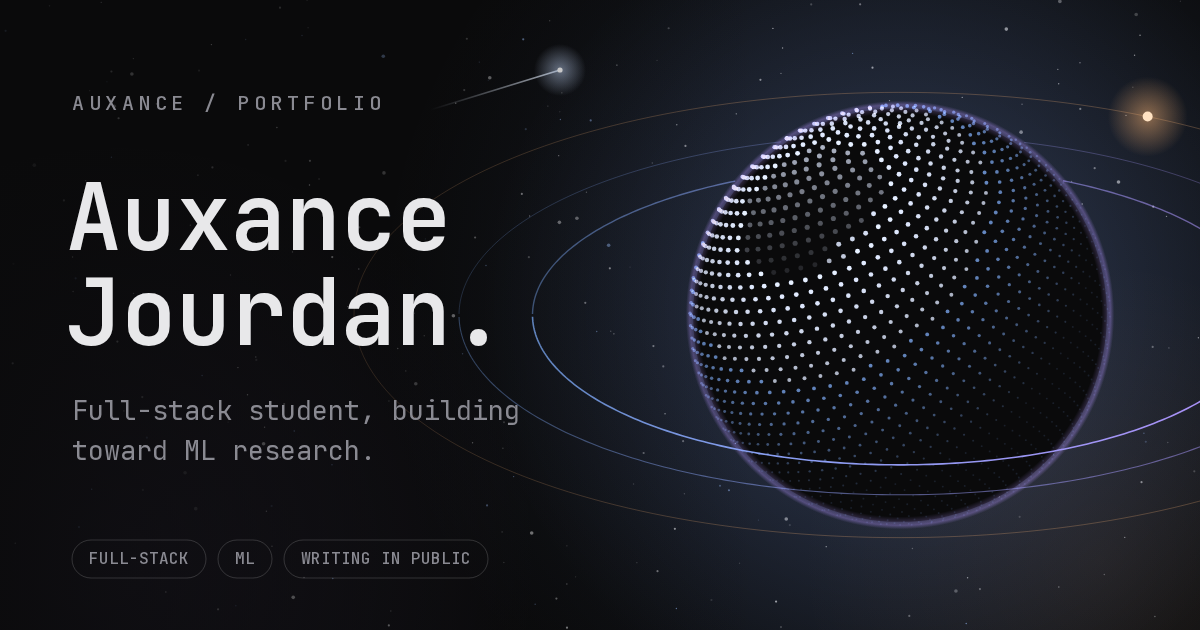
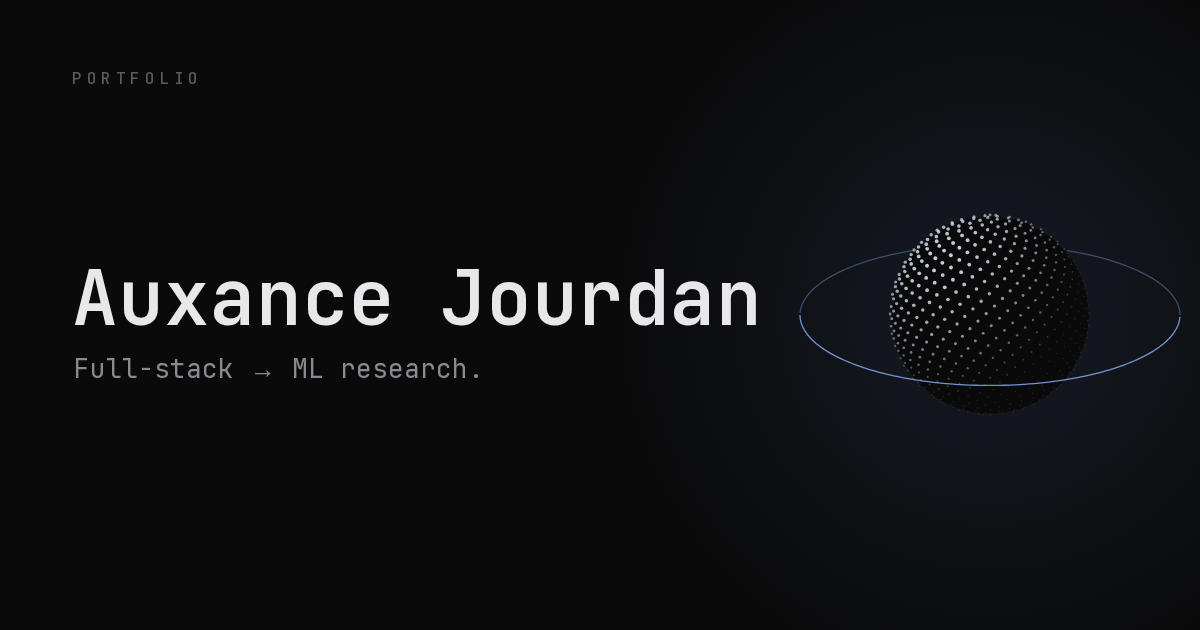
Simplify the link-preview image: name, one line, one small planet
Claude-Session: https://claude.ai/code/session_019Yp5EvwEzetkUfcixwFXkd

diff --git a/design/og/og.html b/design/og/og.html
@@ -5,79 +5,56 @@ html,body{margin:0;background:#0A0A0B}
 canvas{display:block}
 </style></head><body><canvas id="c" width="1200" height="630"></canvas>
 <script>
+// Sober link-preview card: name, one line, one small planet.
 document.fonts.load('600 60px JB').then(()=>{
 const W=1200,H=630,c=document.getElementById('c'),g=c.getContext('2d');
-function rng(seed){return()=>{seed|=0;seed=seed+0x6d2b79f5|0;let t=Math.imul(seed^seed>>>15,1|seed);t=t+Math.imul(t^t>>>7,61|t)^t;return((t^t>>>14)>>>0)/4294967296}}
-const R=rng(11);
-// background
 g.fillStyle='#0A0A0B';g.fillRect(0,0,W,H);
-function glow(x,y,r,col,a){const gr=g.createRadialGradient(x,y,0,x,y,r);gr.addColorStop(0,col.replace('A',a));gr.addColorStop(1,col.replace('A',0));g.fillStyle=gr;g.fillRect(0,0,W,H)}
-glow(900,300,520,'rgba(127,176,255,A)',0.16);
-glow(120,560,420,'rgba(179,147,255,A)',0.10);
-glow(1100,560,300,'rgba(255,184,119,A)',0.07);
-// stars
-for(let i=0;i<260;i++){const x=R()*W,y=R()*H,s=R()<0.08?1.8:R()<0.3?1.1:0.7;g.globalAlpha=0.15+R()*0.5;g.fillStyle=R()<0.15?'#9fc2ff':'#e8e8ea';g.beginPath();g.arc(x,y,s,0,7);g.fill()}
-g.globalAlpha=1;
-// planet
-const cx=900,cy=315,pr=210,tilt=-0.42,rot=0.5;
-function proj(x,y,z){ // rotate around Y then tilt around X
- const cr=Math.cos(rot),sr=Math.sin(rot);let x1=x*cr+z*sr,z1=-x*sr+z*cr;
- const ct=Math.cos(tilt),st=Math.sin(tilt);let y1=y*ct-z1*st,z2=y*st+z1*ct;return [x1,y1,z2]}
-// ring (tilted disc): points on circle in XZ plane
-function ringPts(rad,n){const a=[];for(let i=0;i<n;i++){const t=i/n*Math.PI*2;a.push(proj(Math.cos(t)*rad,0,Math.sin(t)*rad*1))}return a}
-function drawRing(rad,front,alpha,w){
- const pts=ringPts(rad,360);g.lineWidth=w;
- const gr=g.createLinearGradient(cx-rad,cy,cx+rad,cy);gr.addColorStop(0,'#7fb0ff');gr.addColorStop(1,'#b393ff');g.strokeStyle=gr;
- g.globalAlpha=alpha;g.beginPath();let pen=false;
- for(let i=0;i<=pts.length;i++){const p=pts[i%pts.length];const isFront=p[2]>0;
-  const behindDisc=Math.hypot(p[0],p[1])<pr;
-  const show=front?isFront:(!isFront&&!behindDisc);
-  if(show){const X=cx+p[0],Y=cy+p[1];if(!pen){g.moveTo(X,Y);pen=true}else g.lineTo(X,Y)}else pen=false}
- g.stroke();g.globalAlpha=1}
-// halo
-glow(cx,cy,pr*2.0,'rgba(140,170,255,A)',0.20);
-drawRing(pr*1.75,false,0.55,1.4);drawRing(pr*2.1,false,0.28,1);
-// core
+
+// one very soft light behind the planet
+const cx=990,cy=315,pr=100;
+const glow=g.createRadialGradient(cx,cy,0,cx,cy,380);
+glow.addColorStop(0,'rgba(127,176,255,0.10)');glow.addColorStop(1,'rgba(127,176,255,0)');
+g.fillStyle=glow;g.fillRect(0,0,W,H);
+
+// tilted ring helper: back half, then front half
+const tilt=-0.38;
+function ring(rad,front,alpha){
+  g.strokeStyle='#8fb4ff';g.lineWidth=1.3;g.globalAlpha=alpha;g.beginPath();let pen=false;
+  for(let i=0;i<=240;i++){
+    const t=i/240*Math.PI*2, x=Math.cos(t)*rad, z=Math.sin(t)*rad;
+    const y=-z*Math.sin(tilt), zz=z*Math.cos(tilt);
+    const isFront=zz>0, behind=Math.hypot(x,y)<pr;
+    const show=front?isFront:(!isFront&&!behind);
+    if(show){const X=cx+x,Y=cy+y;pen?g.lineTo(X,Y):(g.moveTo(X,Y),pen=true)}else pen=false;
+  }
+  g.stroke();g.globalAlpha=1;
+}
+ring(pr*1.9,false,0.35);
+
+// dark core + dotted surface (light from upper left)
 g.fillStyle='#0A0A0B';g.beginPath();g.arc(cx,cy,pr*0.985,0,7);g.fill();
-// dotted sphere
-const N=2600,gold=Math.PI*(3-Math.sqrt(5));
-g.globalCompositeOperation='lighter';
-for(let i=0;i<N;i++){const y=1-i/(N-1)*2,r=Math.sqrt(1-y*y),a=i*gold;
- const p=proj(Math.cos(a)*r*pr,y*pr,Math.sin(a)*r*pr);if(p[2]<0)continue;
- const lit=(p[2]/pr);const X=cx+p[0],Y=cy+p[1];
- // light from upper-left
- const light=Math.max(0,((-p[0]*0.5-p[1]*0.6+p[2]*0.8)/pr));
- g.globalAlpha=0.12+light*0.85;g.fillStyle=light>0.7?'#dfe9ff':'#7fb0ff';
- g.beginPath();g.arc(X,Y,0.9+light*1.5,0,7);g.fill()}
-g.globalCompositeOperation='source-over';g.globalAlpha=1;
-// rim
-const rg=g.createRadialGradient(cx,cy,pr*0.96,cx,cy,pr*1.02);rg.addColorStop(0,'rgba(179,147,255,0)');rg.addColorStop(0.7,'rgba(179,147,255,0.35)');rg.addColorStop(1,'rgba(179,147,255,0)');g.fillStyle=rg;g.beginPath();g.arc(cx,cy,pr*1.03,0,7);g.fill();
-drawRing(pr*1.75,true,0.95,1.6);drawRing(pr*2.1,true,0.5,1.1);
-// moon on orbit
-{const t=-0.6,p=proj(Math.cos(t)*pr*2.6,0,Math.sin(t)*pr*2.6);const mx=cx+p[0],my=cy+p[1];
- g.globalAlpha=0.25;g.strokeStyle='#ffb877';g.lineWidth=1;g.beginPath();
- const o=ringPts(pr*2.6,240);o.forEach((q,i)=>{const X=cx+q[0],Y=cy+q[1];i?g.lineTo(X,Y):g.moveTo(X,Y)});g.closePath();g.stroke();g.globalAlpha=1;
- glow(mx,my,40,'rgba(255,184,119,A)',0.5);g.fillStyle='#ffe2c2';g.beginPath();g.arc(mx,my,5,0,7);g.fill()}
-// comet
-{const x0=560,y0=70,x1=430,y1=110;const gr=g.createLinearGradient(x0,y0,x1,y1);gr.addColorStop(0,'rgba(230,240,255,0.95)');gr.addColorStop(1,'rgba(230,240,255,0)');
- g.strokeStyle=gr;g.lineWidth=1.6;g.beginPath();g.moveTo(x0,y0);g.lineTo(x1,y1);g.stroke();
- glow(x0,y0,26,'rgba(200,220,255,A)',0.6);g.fillStyle='#fff';g.beginPath();g.arc(x0,y0,2.6,0,7);g.fill()}
-// left vignette so text reads
-const lv=g.createLinearGradient(0,0,760,0);lv.addColorStop(0,'rgba(10,10,11,0.85)');lv.addColorStop(1,'rgba(10,10,11,0)');g.fillStyle=lv;g.fillRect(0,0,760,H);
+const N=900,gold=Math.PI*(3-Math.sqrt(5)),rot=0.5;
+for(let i=0;i<N;i++){
+  const y=1-i/(N-1)*2,r=Math.sqrt(1-y*y),a=i*gold+rot;
+  const x=Math.cos(a)*r,z=Math.sin(a)*r; if(z<0)continue;
+  const light=Math.max(0,(-x*0.5-y*0.6+z*0.7));
+  g.globalAlpha=0.10+light*0.75;g.fillStyle='#dfe9ff';
+  g.beginPath();g.arc(cx+x*pr,cy+y*pr,0.8+light*1.1,0,7);g.fill();
+}
+g.globalAlpha=1;
+ring(pr*1.9,true,0.8);
+
 // text
 g.textBaseline='alphabetic';
-g.font='500 20px JB';g.fillStyle='#8A8A92';
-function spaced(t,x,y,sp){for(const ch of t){g.fillText(ch,x,y);x+=g.measureText(ch).width+sp}}
-spaced('AUXANCE / PORTFOLIO',72,110,4.5);
-g.fillStyle='#E8E8EA';g.font='600 92px JB';
-g.fillText('Auxance',66,250);g.fillText('Jourdan.',66,345);
-g.font='400 27px JB';g.fillStyle='#8A8A92';
-g.fillText('Full-stack student, building',72,420);
-g.fillText('toward ML research.',72,460);
-// footer tags
-g.font='500 16px JB';
-const tags=['FULL-STACK','ML','WRITING IN PUBLIC'];let tx=72;
-tags.forEach(t=>{const w=g.measureText(t).width+34;g.strokeStyle='rgba(255,255,255,0.16)';g.lineWidth=1;g.beginPath();g.roundRect(tx,540,w,38,19);g.stroke();g.fillStyle='#8A8A92';g.fillText(t,tx+17,564);tx+=w+12});
+g.fillStyle='#E8E8EA';g.font='600 76px JB';
+g.fillText('Auxance Jourdan',72,325);
+g.fillStyle='#8A8A92';g.font='400 26px JB';
+g.fillText('Full-stack → ML research.',74,378);
+
+// a single quiet label
+g.font='500 16px JB';g.fillStyle='#5A5A62';
+let x=72;for(const ch of 'PORTFOLIO'){g.fillText(ch,x,84);x+=g.measureText(ch).width+4.5}
+
 window.__done=true;
 });
 </script></body></html>

diff --git a/src/app/layout.tsx b/src/app/layout.tsx
@@ -52,7 +52,7 @@ export async function generateMetadata(): Promise<Metadata> {
       title: 'Auxance / Portfolio — Writing in public.',
       description,
       type: 'website',
-      images: [{ url: socialImage, width: 1200, height: 630, alt: 'Auxance Jourdan — full-stack student building toward ML research.' }],
+      images: [{ url: socialImage, width: 1200, height: 630, alt: 'Auxance Jourdan — Full-stack → ML research.' }],
     },
     twitter: {
       card: 'summary_large_image',
